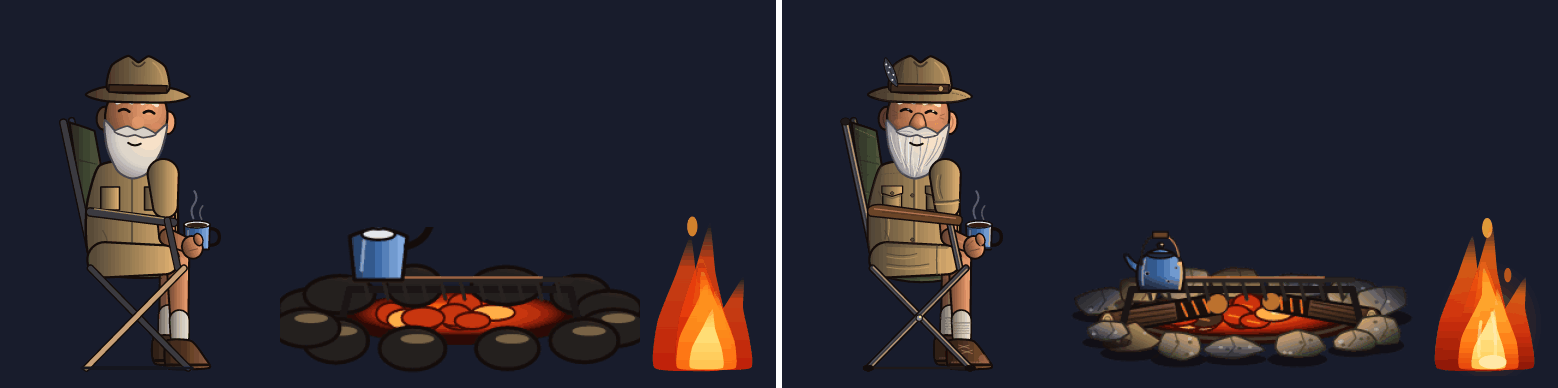
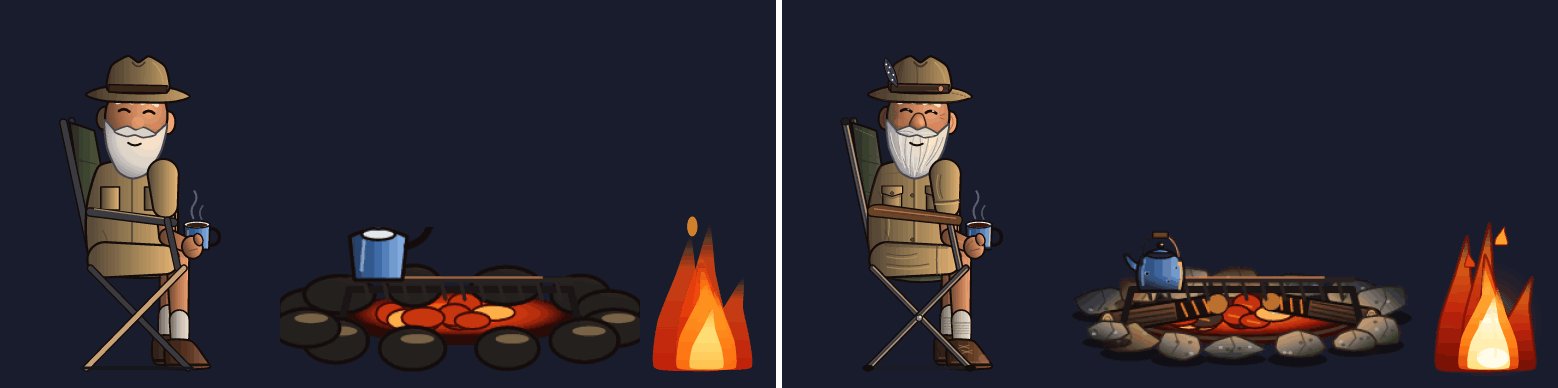
feat(art): the fire — a white-yellow core, darker red edges, separate tongues (D-077 review)

Changed region(s): [[0.9243, 0.5876, 0.9859, 0.9588]]

diff --git a/tools/art/braai.ts b/tools/art/braai.ts
@@ -1050,8 +1050,8 @@ function flame(i: number): string {
     [
       [0, '#FF8A1A', 0.1],
       [0.2, '#FF6A10', 0.8],
-      [0.6, '#D8300A', 0.95],
-      [1, '#8A1406', 1],
+      [0.55, '#C8240A', 0.95],
+      [1, '#6A0C04', 1],
     ],
     0,
     1,
@@ -1068,9 +1068,9 @@ function flame(i: number): string {
   );
   const core = linear(
     [
-      [0, '#FFF6C8', 0.3],
-      [0.35, '#FFEA90', 1],
-      [1, '#FFC84A', 1],
+      [0, '#FFFFF0', 0.4],
+      [0.3, '#FFFBE0', 1],
+      [1, '#FFE27A', 1],
     ],
     0,
     1,
@@ -1083,10 +1083,19 @@ function flame(i: number): string {
   const parts: string[] = [defs(outer, mid, core, halo)];
   const H = FLAME.oy - 4;
   parts.push(path(ellipseD(0, -H * 0.3, 26, H * 0.42), halo.url));
+  // v1.15 review: separate outer tongues with darker red edges (each its own flame).
   for (let k = 0; k < 4; k++) {
-    const dx = (k - 1.5) * 7 + (rnd() - 0.5) * 6;
+    const dx = (k - 1.5) * 9 + (rnd() - 0.5) * 5;
+    const d = tongue(8 + rnd() * 3, H * (0.6 + rnd() * 0.4), dx, (rnd() - 0.5) * 18);
     parts.push(
-      path(tongue(10 + rnd() * 4, H * (0.6 + rnd() * 0.4), dx, (rnd() - 0.5) * 18), outer.url),
+      el('path', {
+        d,
+        fill: outer.url,
+        stroke: '#7A0E04',
+        'stroke-width': 1.3,
+        'stroke-opacity': 0.75,
+        'stroke-linejoin': 'round',
+      }),
     );
   }
   for (let k = 0; k < 3; k++) {
@@ -1096,10 +1105,10 @@ function flame(i: number): string {
     );
   }
   parts.push(
-    path(tongue(8, H * (0.28 + rnd() * 0.12), (rnd() - 0.5) * 4, (rnd() - 0.5) * 8), core.url),
+    path(tongue(10, H * (0.36 + rnd() * 0.12), (rnd() - 0.5) * 4, (rnd() - 0.5) * 8), core.url),
   );
   // The white-hot heart at the root and two bright inner streaks.
-  parts.push(path(ellipseD((rnd() - 0.5) * 3, -3, 7, 3.4), '#FFF8E0', { opacity: 0.6 }));
+  parts.push(path(ellipseD((rnd() - 0.5) * 3, -5, 8, 5), '#FFFFF4', { opacity: 0.9 }));
   for (let k = 0; k < 2; k++) {
     const x = (k - 0.5) * 8 + (rnd() - 0.5) * 3;
     parts.push(
@@ -1111,14 +1120,20 @@ function flame(i: number): string {
       ),
     );
   }
-  // Loose licks breaking off the top (one yellow, one red-orange).
-  const ly = -H * (0.82 + rnd() * 0.14);
-  parts.push(path(ellipseD((rnd() - 0.5) * 16, ly, 2.6, 5), '#FFB03A', { opacity: 0.85 }));
-  parts.push(
-    path(ellipseD((rnd() - 0.5) * 22, -H * (0.62 + rnd() * 0.1), 1.8, 3.6), '#FF6A1A', {
-      opacity: 0.7,
-    }),
-  );
+  // Loose tongues breaking off above (small flames of their own: one orange-yellow, one red).
+  const lick = (x: number, y: number, w: number, h: number, fill: string): string =>
+    g(
+      { transform: `translate(${r2(x)} ${r2(y)})` },
+      el('path', {
+        d: tongue(w, h, 0, (rnd() - 0.5) * 4),
+        fill,
+        stroke: '#7A0E04',
+        'stroke-width': 0.8,
+        'stroke-opacity': 0.6,
+      }),
+    );
+  parts.push(lick((rnd() - 0.5) * 14, -H * (0.8 + rnd() * 0.08), 3, 9, '#FFA52A'));
+  parts.push(lick((rnd() - 0.5) * 24, -H * (0.66 + rnd() * 0.08), 2.4, 7, '#E8420E'));
   return g({}, ...parts);
 }
 
